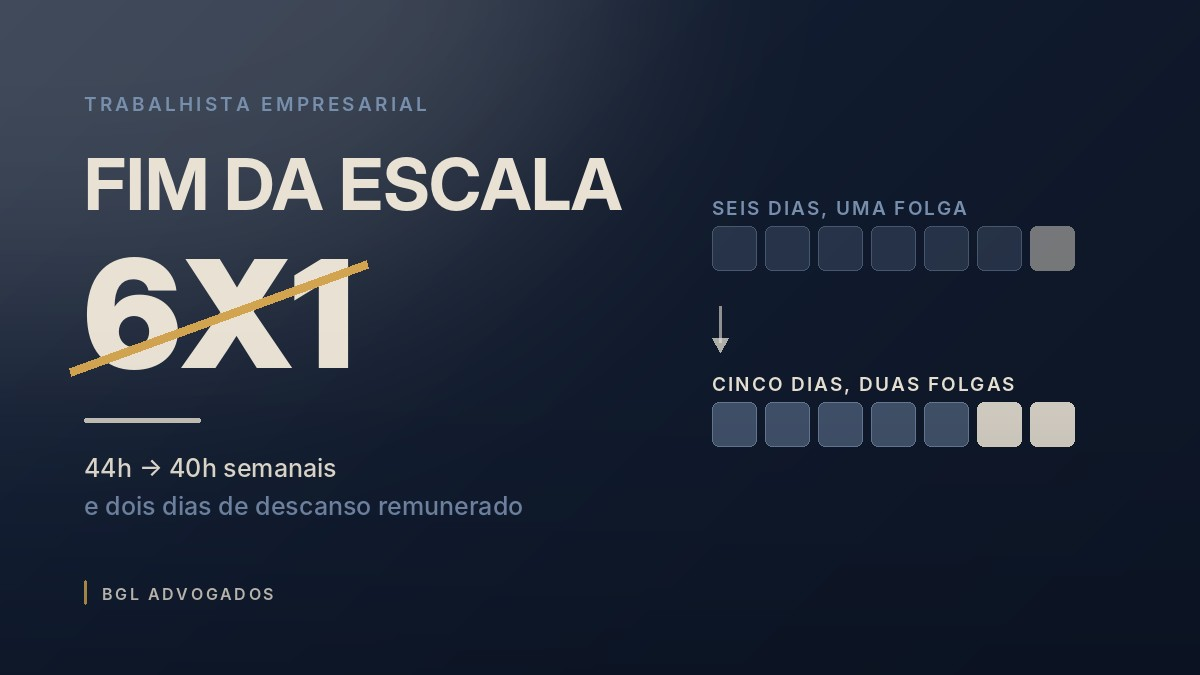
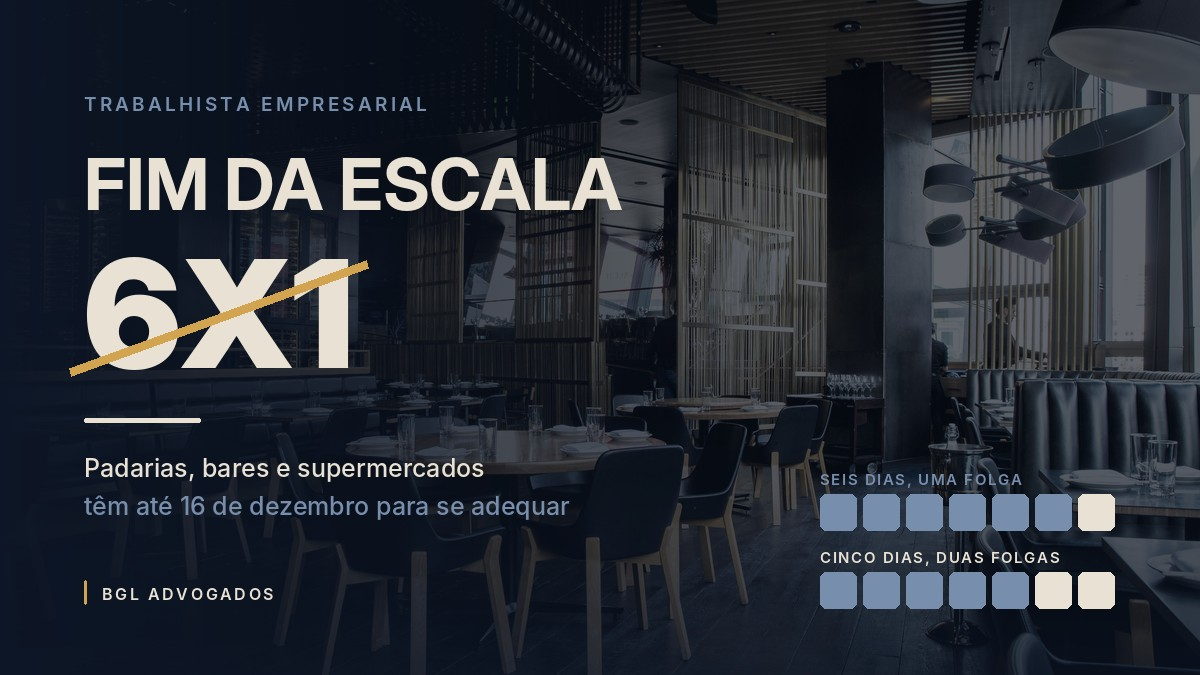
Funde a arte do 6x1 com a foto de salao na capa do artigo do comercio
A fotografia entra como ambiente, puxada para o azul-marinho do site e
escurecida, com degrade a esquerda para a tipografia sentar em area
limpa. A chamada liga o titulo ao publico do artigo e a faixa da semana
vai compacta no canto inferior direito.

Acrescenta a opcao --foto ao gerador. A foto de origem e "bar sem
licenca.jpg", da pasta Capas dos artigos no Drive, sem marca d'agua e
sem autoria nos metadados, por isso a pagina nao leva linha de credito.
A primeira imagem enviada, bar.avif, era uma previa do Unsplash+ com
marca d'agua e foi descartada.

Claude-Session: https://claude.ai/code/session_0148NyuDybsPgzrU3Hnz7Ayu

diff --git a/scripts/gerar-capa-6x1.py b/scripts/gerar-capa-6x1.py
@@ -1,25 +1,33 @@
 # -*- coding: utf-8 -*-
-"""Gera a capa do artigo do fim da escala 6x1 na identidade visual do site.
+"""Gera a capa dos artigos do fim da escala 6x1 na identidade visual do site.
 
-Uso: python3 gerar-capa-6x1.py <caminho-de-saida.jpg> [--com-titulo]
+Uso:
+  python3 gerar-capa-6x1.py <saida.jpg>                      motivo geometrico, sem texto
+  python3 gerar-capa-6x1.py <saida.jpg> --com-titulo         arte assinada FIM DA ESCALA 6X1
+  python3 gerar-capa-6x1.py <saida.jpg> --foto <foto> [...]  a arte sobre uma fotografia
 
-Capa 1200x675 (proporcao da og:image do site). O motivo e uma semana que
+Capa 1200x675, a proporcao da og:image do site. O motivo e uma semana que
 passa de seis dias de trabalho com uma folga para cinco dias com duas
 folgas, que e o que a Emenda Constitucional 141/2026 determina.
 
-Sem --com-titulo, a capa sai sem texto grande, como as demais capas do
-site: no artigo ela entra como fundo escurecido do cabecalho, atras do
+Com --foto, a fotografia entra como ambiente: puxada para o azul-marinho
+do site e escurecida, com um degrade a esquerda para a tipografia sentar
+em area limpa. A foto de origem nao fica no repositorio; a usada no
+artigo do comercio e "bar sem licenca.jpg", da pasta Capas dos artigos no
+Drive. Antes de usar qualquer foto, conferir se nao ha marca d'agua de
+banco de imagem: uma prévia marcada nao pode ir ao ar.
+
+Sem --com-titulo e sem --foto a capa sai sem texto grande, como as demais
+do site: no artigo ela entra como fundo escurecido do cabecalho, atras do
 h1, e tipografia na imagem competiria com o titulo da pagina.
 
-Com --com-titulo, sai a versao assinada "FIM DA ESCALA 6X1", para uso em
-redes sociais, onde a imagem aparece sozinha.
-
-Nenhuma data entra na imagem, para que a capa nao precise ser refeita se
-o calendario da transicao for ajustado.
+Nenhuma data entra na imagem por padrao, para que a capa nao precise ser
+refeita se o calendario da transicao for ajustado. A chamada da versao
+com foto e a excecao, e esta num unico ponto do arquivo.
 """
 import sys
 
-from PIL import Image, ImageDraw, ImageFilter, ImageFont
+from PIL import Image, ImageDraw, ImageEnhance, ImageFilter, ImageFont
 
 W, H = 1200, 675
 NAVY = (22, 36, 61)
@@ -34,15 +42,51 @@ DISPLAY_BLACK = FONTES + "InterDisplay-Black.otf"
 INTER_MEDIUM = FONTES + "Inter-Medium.otf"
 INTER_SEMIBOLD = FONTES + "Inter-SemiBold.otf"
 
+CHAMADA = ("Padarias, bares e supermercados", "têm até 16 de dezembro para se adequar")
 
-def fundo():
+
+def fundo_geometrico():
     """Gradiente diagonal igual ao de scripts/gerar-capa.py."""
     grad = Image.new("L", (W, H))
     gd = ImageDraw.Draw(grad)
     for i in range(W + H):
         gd.line([(i, 0), (0, i)], fill=int(255 * (1 - i / (W + H)) ** 1.6))
     base = Image.new("RGB", (W, H), NAVY)
-    return Image.composite(base, Image.new("RGB", (W, H), NAVY_DEEP), grad)
+    img = Image.composite(base, Image.new("RGB", (W, H), NAVY_DEEP), grad)
+    brilho = Image.new("RGBA", (W, H), (0, 0, 0, 0))
+    ImageDraw.Draw(brilho).ellipse([-420, -480, 700, 400], fill=(255, 246, 228, 46))
+    brilho = brilho.filter(ImageFilter.GaussianBlur(140))
+    return Image.alpha_composite(img.convert("RGBA"), brilho).convert("RGB")
+
+
+def cobrir(im, w, h):
+    """Recorta a foto no enquadramento da capa sem deformar."""
+    r = max(w / im.width, h / im.height)
+    im = im.resize((round(im.width * r), round(im.height * r)), Image.LANCZOS)
+    l, t = (im.width - w) // 2, (im.height - h) // 2
+    return im.crop((l, t, l + w, t + h))
+
+
+def fundo_foto(caminho):
+    foto = cobrir(Image.open(caminho).convert("RGB"), W, H)
+    foto = ImageEnhance.Color(foto).enhance(0.5)
+    foto = ImageEnhance.Brightness(foto).enhance(0.62)
+    foto = Image.blend(foto, Image.new("RGB", (W, H), NAVY_DEEP), 0.42)
+    img = foto.convert("RGBA")
+
+    scrim = Image.new("RGBA", (W, H), (0, 0, 0, 0))
+    sd = ImageDraw.Draw(scrim)
+    for x in range(W):
+        t = max(0.0, 1 - x / 820)
+        sd.line([(x, 0), (x, H)], fill=NAVY_DEEP + (int(252 * t ** 1.25),))
+    img = Image.alpha_composite(img, scrim)
+
+    base = Image.new("RGBA", (W, H), (0, 0, 0, 0))
+    bd = ImageDraw.Draw(base)
+    for y in range(H):
+        t = max(0.0, (y - H * 0.5) / (H * 0.5))
+        bd.line([(0, y), (W, y)], fill=NAVY_DEEP + (int(150 * t ** 1.8),))
+    return Image.alpha_composite(img, base).convert("RGB")
 
 
 def texto_espacado(d, xy, texto, fonte, cor, tracking=0):
@@ -51,11 +95,6 @@ def texto_espacado(d, xy, texto, fonte, cor, tracking=0):
     for ch in texto:
         d.text((x, y), ch, font=fonte, fill=cor)
         x += d.textlength(ch, font=fonte) + tracking
-    return x
-
-
-def largura_espacada(d, texto, fonte, tracking=0):
-    return sum(d.textlength(c, font=fonte) + tracking for c in texto) - tracking
 
 
 def semana(d, x, y, trabalho, folga, cell, gap, apagado=False):
@@ -63,54 +102,67 @@ def semana(d, x, y, trabalho, folga, cell, gap, apagado=False):
     for i in range(trabalho + folga):
         x0 = x + i * (cell + gap)
         box = [x0, y, x0 + cell, y + cell]
+        raio = max(3, cell // 6)
         if i < trabalho:
-            alpha = 55 if apagado else 120
-            d.rounded_rectangle(box, radius=cell // 6, fill=STEEL + (alpha,))
-            d.rounded_rectangle(box, radius=cell // 6, outline=STEEL + (alpha + 45,), width=1)
+            alpha = 60 if apagado else 130
+            d.rounded_rectangle(box, radius=raio, fill=STEEL + (alpha,))
+            d.rounded_rectangle(box, radius=raio, outline=STEEL + (alpha + 45,), width=1)
         else:
-            alpha = 120 if apagado else 230
-            d.rounded_rectangle(box, radius=cell // 6, fill=CREAM + (alpha,))
+            alpha = 115 if apagado else 235
+            d.rounded_rectangle(box, radius=raio, fill=CREAM + (alpha,))
 
 
-def largura_semana(cell, gap, n=7):
-    return n * cell + (n - 1) * gap
+def assinatura(d, x, y):
+    d.rounded_rectangle([x, y, x + 2, y + 24], radius=1, fill=GOLD + (255,))
+    texto_espacado(d, (x + 18, y + 4), "BGL ADVOGADOS",
+                   ImageFont.truetype(INTER_SEMIBOLD, 16), CREAM + (225,), 2.6)
+
+
+def titulo(d, M, linha1, linha2):
+    texto_espacado(d, (M, 92), "TRABALHISTA EMPRESARIAL",
+                   ImageFont.truetype(INTER_SEMIBOLD, 19), STEEL + (255,), 3.2)
+    d.text((M, 140), "FIM DA ESCALA", font=ImageFont.truetype(DISPLAY_BOLD, 72), fill=CREAM + (255,))
+    fn = ImageFont.truetype(DISPLAY_BLACK, 150)
+    d.text((M, 222), "6X1", font=fn, fill=CREAM + (255,))
+    wn = d.textlength("6X1", font=fn)
+    d.line([(M - 14, 372), (M + wn + 14, 264)], fill=GOLD + (255,), width=9)
+    d.rounded_rectangle([M, 418, M + 116, 422], radius=2, fill=CREAM + (210,))
+    fs = ImageFont.truetype(INTER_MEDIUM, 25)
+    d.text((M, 452), linha1, font=fs, fill=CREAM + (228,))
+    d.text((M, 490), linha2, font=fs, fill=STEEL + (255,))
 
 
 def main():
-    saida = sys.argv[1] if len(sys.argv) > 1 else "cover-escala-6x1.jpg"
-    com_titulo = "--com-titulo" in sys.argv[2:]
+    if len(sys.argv) < 2:
+        raise SystemExit("uso: gerar-capa-6x1.py <saida.jpg> [--com-titulo] [--foto <foto>]")
+    saida = sys.argv[1]
+    args = sys.argv[2:]
+    com_titulo = "--com-titulo" in args
+    foto = None
+    if "--foto" in args:
+        i = args.index("--foto")
+        if i + 1 >= len(args):
+            raise SystemExit("--foto exige o caminho da imagem")
+        foto = args[i + 1]
 
-    img = fundo()
-
-    brilho = Image.new("RGBA", (W, H), (0, 0, 0, 0))
-    ImageDraw.Draw(brilho).ellipse([-420, -480, 700, 400], fill=(255, 246, 228, 46))
-    brilho = brilho.filter(ImageFilter.GaussianBlur(140))
-    img = Image.alpha_composite(img.convert("RGBA"), brilho).convert("RGB")
-
+    img = fundo_foto(foto) if foto else fundo_geometrico()
+    d = ImageDraw.Draw(img.convert("RGBA"), "RGBA")
+    img = img.convert("RGBA")
     d = ImageDraw.Draw(img, "RGBA")
     f_rotulo = ImageFont.truetype(INTER_SEMIBOLD, 19)
+    M = 84
 
-    if com_titulo:
-        # --- versao para redes sociais: titulo a esquerda, motivo a direita ---
-        f_eyebrow = ImageFont.truetype(INTER_SEMIBOLD, 19)
-        f_linha1 = ImageFont.truetype(DISPLAY_BOLD, 72)
-        f_numero = ImageFont.truetype(DISPLAY_BLACK, 150)
-        f_sub = ImageFont.truetype(INTER_MEDIUM, 25)
-        f_marca = ImageFont.truetype(INTER_SEMIBOLD, 16)
-        M = 84
-
-        texto_espacado(d, (M, 92), "TRABALHISTA EMPRESARIAL", f_eyebrow, STEEL + (255,), 3.2)
-        d.text((M, 140), "FIM DA ESCALA", font=f_linha1, fill=CREAM + (255,))
-
-        y_num = 222
-        d.text((M, y_num), "6X1", font=f_numero, fill=CREAM + (255,))
-        w_num = d.textlength("6X1", font=f_numero)
-        d.line([(M - 14, y_num + 150), (M + w_num + 14, y_num + 42)], fill=GOLD + (255,), width=9)
-
-        d.rounded_rectangle([M, 418, M + 116, 422], radius=2, fill=CREAM + (210,))
-        d.text((M, 452), "44h → 40h semanais", font=f_sub, fill=CREAM + (225,))
-        d.text((M, 490), "e dois dias de descanso remunerado", font=f_sub, fill=STEEL + (255,))
-
+    if foto:
+        titulo(d, M, CHAMADA[0], CHAMADA[1])
+        fr = ImageFont.truetype(INTER_SEMIBOLD, 15)
+        xs, cell, gap = 820, 36, 7
+        texto_espacado(d, (xs, 470), "SEIS DIAS, UMA FOLGA", fr, STEEL + (225,), 1.6)
+        semana(d, xs, 494, 6, 1, cell, gap, apagado=True)
+        texto_espacado(d, (xs, 548), "CINCO DIAS, DUAS FOLGAS", fr, CREAM + (235,), 1.6)
+        semana(d, xs, 572, 5, 2, cell, gap)
+        assinatura(d, M, 580)
+    elif com_titulo:
+        titulo(d, M, "44h → 40h semanais", "e dois dias de descanso remunerado")
         xd, cell, gap = 712, 44, 9
         texto_espacado(d, (xd, 196), "SEIS DIAS, UMA FOLGA", f_rotulo, STEEL + (235,), 2.0)
         semana(d, xd, 226, 6, 1, cell, gap, apagado=True)
@@ -119,37 +171,31 @@ def main():
         d.polygon([(cx - 8, 338), (cx + 8, 338), (cx, 352)], fill=CREAM + (190,))
         texto_espacado(d, (xd, 372), "CINCO DIAS, DUAS FOLGAS", f_rotulo, CREAM + (240,), 2.0)
         semana(d, xd, 402, 5, 2, cell, gap)
-
-        d.rounded_rectangle([M, 580, M + 2, 604], radius=1, fill=GOLD + (255,))
-        texto_espacado(d, (M + 18, 584), "BGL ADVOGADOS", f_marca, CREAM + (225,), 2.6)
+        assinatura(d, M, 580)
     else:
-        # --- capa do site: so o motivo, centralizado, sem tipografia grande ---
         cell, gap = 96, 20
-        lw = largura_semana(cell, gap)
+        lw = 7 * cell + 6 * gap
         x0 = (W - lw) // 2
-
         texto_espacado(d, (x0, 158), "SEIS DIAS, UMA FOLGA", f_rotulo, STEEL + (190,), 3.0)
         semana(d, x0, 196, 6, 1, cell, gap, apagado=True)
-
         cx = W // 2
         d.line([(cx, 322), (cx, 368)], fill=CREAM + (120,), width=3)
         d.polygon([(cx - 10, 362), (cx + 10, 362), (cx, 380)], fill=CREAM + (160,))
-
         texto_espacado(d, (x0, 404), "CINCO DIAS, DUAS FOLGAS", f_rotulo, CREAM + (205,), 3.0)
         semana(d, x0, 442, 5, 2, cell, gap)
-
         d.rounded_rectangle([x0, 586, x0 + 90, 589], radius=2, fill=GOLD + (210,))
 
-    vinheta = Image.new("RGBA", (W, H), (0, 0, 0, 0))
-    vd = ImageDraw.Draw(vinheta)
-    for y in range(H):
-        t = max(0.0, (y - H * 0.42) / (H * 0.58))
-        a = int(96 * t ** 2.2)
-        if a:
-            vd.line([(0, y), (W, y)], fill=(8, 14, 26, a))
-    img = Image.alpha_composite(img.convert("RGBA"), vinheta).convert("RGB")
+    if not foto:
+        vinheta = Image.new("RGBA", (W, H), (0, 0, 0, 0))
+        vd = ImageDraw.Draw(vinheta)
+        for y in range(H):
+            t = max(0.0, (y - H * 0.42) / (H * 0.58))
+            a = int(96 * t ** 2.2)
+            if a:
+                vd.line([(0, y), (W, y)], fill=(8, 14, 26, a))
+        img = Image.alpha_composite(img, vinheta)
 
-    img.save(saida, quality=90, optimize=True)
+    img.convert("RGB").save(saida, quality=90, optimize=True)
     print(saida)
 
 
